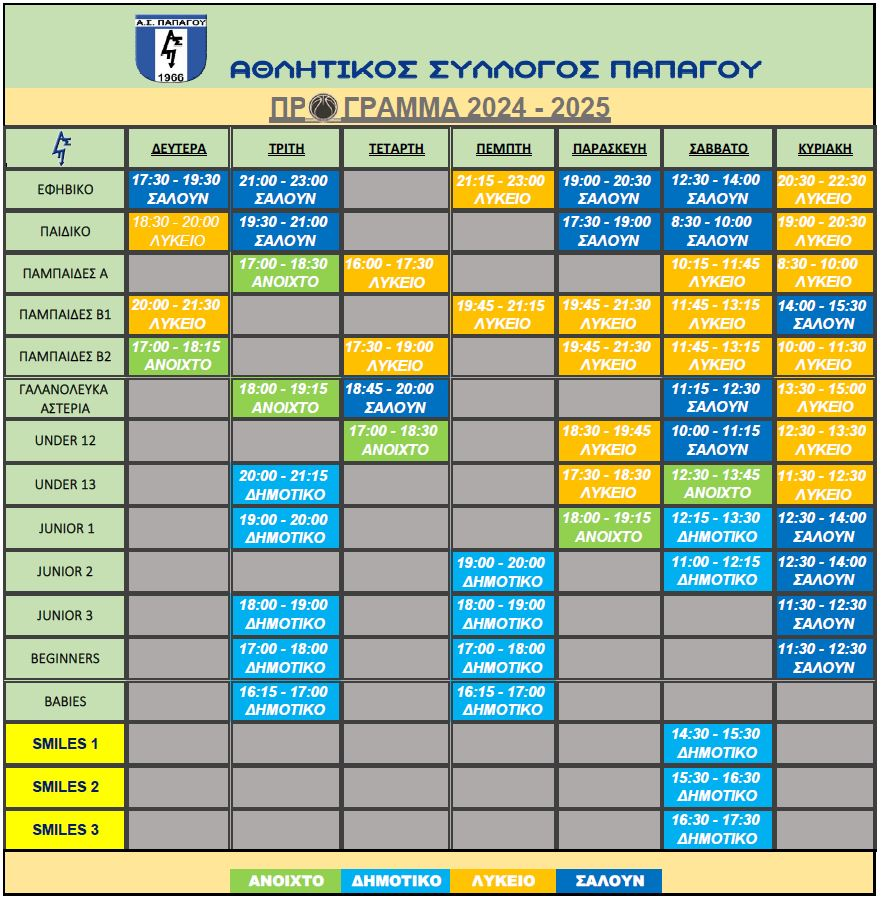
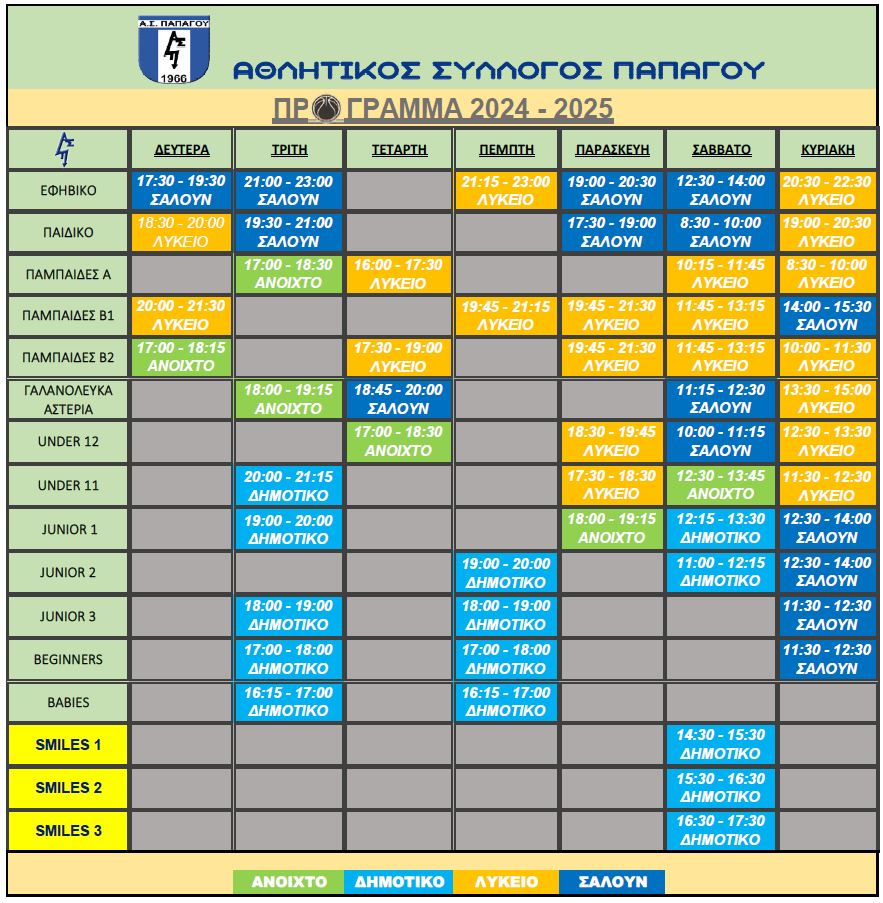
text

diff --git a/index.html b/index.html
@@ -109,7 +109,7 @@
     <div class="hero-container" data-aos="fade-in">
       <h1>Α.Σ. ΠAΠΑΓΟΥ <br> Ακαδημία Μπάσκετ</h1>
 	<!--  <h2>Ακαδημία Καλαθοσφαίρισης</h2>  -->
-      <p>  <span class="typed" data-typed-items="Έφηβοι, Παίδες, Παμπαίδες, Γαλανόλευκα Αστέρια, U12, U13, Junior, Beginners, Babies, Smiles"></span></p>   
+      <p>  <span class="typed" data-typed-items="Έφηβοι, Παίδες, Παμπαίδες, Γαλανόλευκα Αστέρια, U12, U11, Junior, Beginners, Babies, Smiles"></span></p>   
     </div>
 
 
@@ -184,7 +184,7 @@
           <div class="col-lg-3 col-md-6 d-md-flex align-items-md-stretch" data-aos="fade-up" data-aos-delay="100">
             <div class="count-box">
               <i class="bi bi-trophy"></i>
-              <span data-purecounter-start="0" data-purecounter-end="3" data-purecounter-duration="3" class="purecounter"></span>
+              <span data-purecounter-start="0" data-purecounter-end="4" data-purecounter-duration="4" class="purecounter"></span>
               <p><strong>Πρόσφατες Διακρίσεις: </strong><br>- Άνοδος του παιδικού από τη Β' στην Α2 (2023-2024)<br>- 2 σερί άνοδοι του εβηβικού από την Β στην Α2 (2021-2022) και από την Α2 στην Α1 (2022-2023) <br>- Άνοδος απο την Β στην Α1 (2017-2018)</p>
             </div>
           </div>
